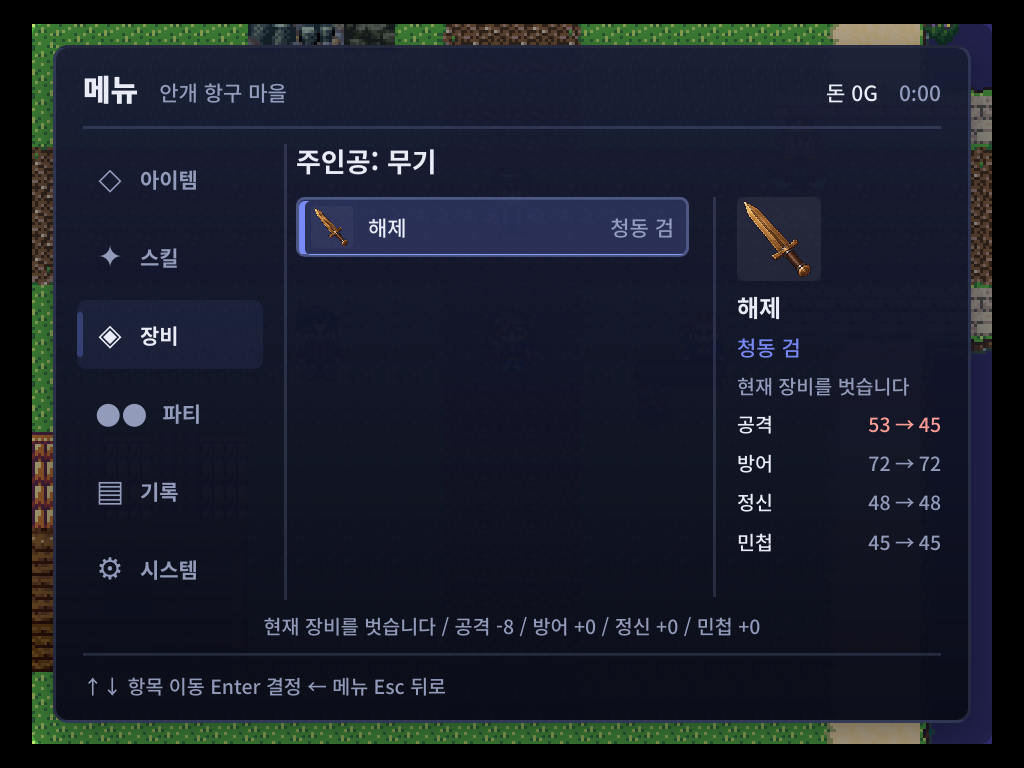
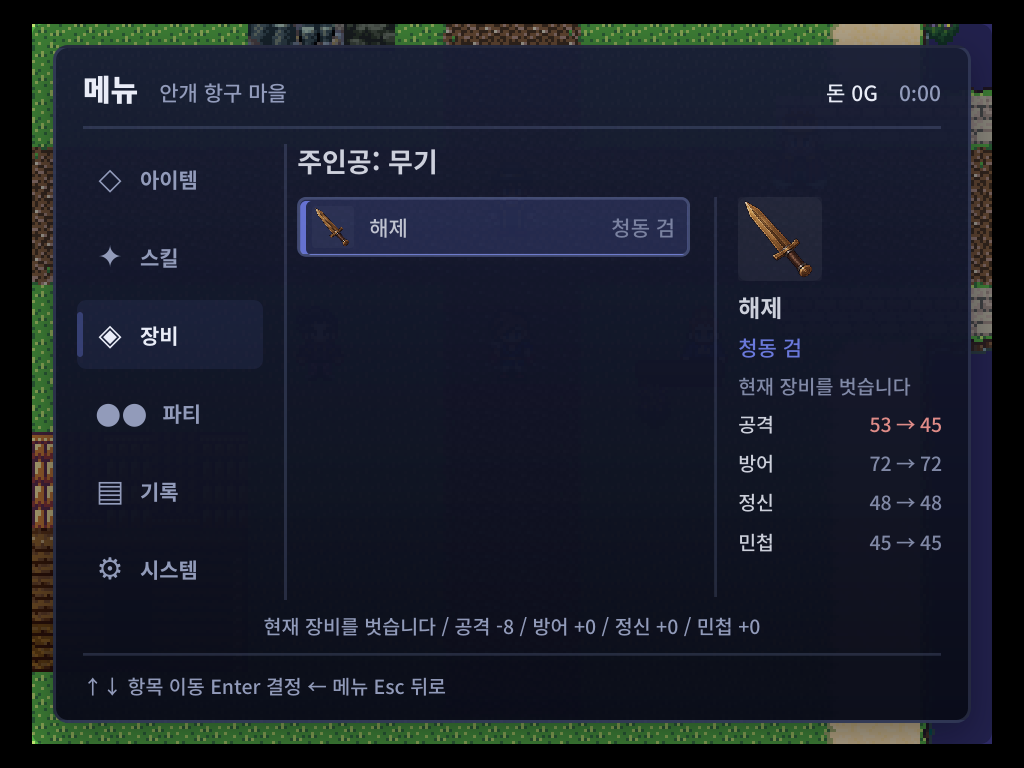
fix(runtime): finalize Esc menu state and regression checks

diff --git a/src/player/playerStatusMenuDetails.ts b/src/player/playerStatusMenuDetails.ts
@@ -4,8 +4,8 @@ import { menuItemUnavailableReason, previewMenuItemTarget } from "@/player/playe
 import { activeItemEffects } from "@/project/itemUsage";
 import type { SaveSlotIndex, SaveSlotReadResult } from "@/player/saveSlots";
 import { canEquip, effectiveActorEquipment, equipmentSlotAccepts } from "@/project/equipmentRules";
-import { resolveActorName } from "@/project/sessionActorCommands";
-import { normalizeActorRecord, parameterValueAtLevel } from "@/project/actorModel";
+import { resolveActorName, resolveActorFaceResourceId } from "@/project/sessionActorCommands";
+import { defaultActorFaceResourceId, normalizeActorRecord, parameterValueAtLevel } from "@/project/actorModel";
 import type { StatusMenuStatDelta } from "@/player/playerStatusMenuDetailTypes";
 import { effectiveActorClassId } from "@/project/sessionClass";
 import type { PlaySession } from "@/project/session";
@@ -155,7 +155,11 @@ function itemDetail(options: StatusMenuDetailOptions): StatusMenuDetail {
           vitals: preview,
           unavailableReason: anyTarget ? undefined : preview.reason,
           description: anyTarget ? "사용 가능한 파티원 모두에게 적용됩니다." : preview.reason,
-          face: { resourceId: actor.faceResourceId, alt: actor.name, testId: `status-menu-target-face-${actor.id}` },
+          face: {
+            resourceId: resolveActorFaceResourceId(session, actor) ?? defaultActorFaceResourceId(actor),
+            alt: resolveActorName(session, actor),
+            testId: `status-menu-target-face-${actor.id}`,
+          },
           testId: `status-menu-item-target-${actor.id}`,
           onActivate: options.onUseItem ? () => options.onUseItem?.(item.id, actor.id) : undefined,
         };

diff --git a/test/systemShell.test.ts b/test/systemShell.test.ts
@@ -225,7 +225,8 @@ describe("T12 RM2K3 player status menu", () => {
       expect(findByTestId(menu, "status-menu-gold")?.textContent).toBe("돈 0G");
       expect(findByTestId(menu, "status-menu-slots")).toBeNull();
       expect(findByTestId(menu, "status-menu-time")?.textContent).toBe("0:00");
-      expect(findByTestId(menu, "status-menu-empty")?.textContent).toBe("파티원이 없습니다");
+      expect(findByTestId(menu, "status-menu-party")).toBeNull();
+      expect(findByTestId(menu, "status-menu-empty")).toBeNull();
       expect(findByTestId(menu, "status-menu-detail-title")?.textContent).toBe("아이템");
       expect(findByTestId(menu, "status-menu-detail")?.textContent).toContain("아이템이 없습니다");
     } finally {

diff --git a/src/player/playerStatusMenuController.ts b/src/player/playerStatusMenuController.ts
@@ -227,6 +227,8 @@ export function createPlayerStatusMenuController(options: PlayerStatusMenuContro
     else detail?.removeAttribute("inert");
     const controls = menu.querySelector<HTMLElement>(".status-menu-controls");
     if (controls) controls.textContent = statusMenuControls(mode);
+    const debug = menu.querySelector<HTMLElement>("[data-testid='status-menu-debug-json']");
+    if (debug) debug.textContent = JSON.stringify({ selectedCommand, mode });
     focusActiveMenuContainer();
   }
 

diff --git a/test/playerStatusMenuMotion.test.ts b/test/playerStatusMenuMotion.test.ts
@@ -18,7 +18,7 @@ describe("status menu exit lifetime", () => {
       closeStatusMenu(menu);
       expect(currentStatusMenu(layout)).toBeNull();
       expect(menu.parentNode).toBe(layout);
-      expect(animate.mock.calls[0]?.[0]).toBeDefined();
+      expect(animate).toHaveBeenCalledTimes(1);
       const [frames, options] = (animate.mock.calls[0] as unknown as [Keyframe[], KeyframeAnimationOptions]);
       expect(frames.at(-1)?.opacity).toBe(0);
       expect(options.fill).toBe("forwards");

diff --git a/src/styles/runtime/statusMenuEdgeDock.css b/src/styles/runtime/statusMenuEdgeDock.css
@@ -111,8 +111,12 @@
 .oprn-status-menu .status-menu-primary-dock > .status-menu-command.selected {
   background: var(--status-edge-amber-soft);
   border-color: transparent;
+  border-radius: 3px;
+  bottom: auto;
   box-shadow: none;
   color: var(--status-edge-ivory);
+  margin: 0;
+  min-height: 0;
 }
 .oprn-status-menu .status-menu-command.selected::before,
 .oprn-status-menu .status-menu-detail-action.selected::before { content: none; }

diff --git a/.omo/evidence/esc-menu-workbench/REPORT.md b/.omo/evidence/esc-menu-workbench/REPORT.md
@@ -12,16 +12,28 @@ The editor shell and remote project storage are not involved in these UI changes
 
 Validation:
 
-- 55 focused unit tests passed (preview/execution parity, no session/RNG mutation,
-  menu rendering, target eligibility, and closing lifetime).
+- 64 focused unit tests passed after integrating main (preview/execution parity,
+  no session/RNG mutation, menu rendering, empty-party shell behavior, target
+  eligibility, and closing lifetime).
+- Application typecheck and CSS budget/graph/live-class gates passed.
 - Chromium passed the 13-beat action scenario, focus/scroll preservation,
   640×480 / 1024×768 / 1280×960 geometry, and close/reopen checks.
-- Firefox passed the final strengthened browser test, additionally verifying
+- Firefox passed the final strengthened browser test again after integrating main,
+  additionally verifying
   all four targets fit, consuming the last potion returns to the list, and
   reduced motion is actually invoked (an empty animation array cannot pass).
 - Later Chromium reruns were interrupted by host `net::ERR_NETWORK_CHANGED`.
   This is the documented Linux network-interface issue in `openwiki/testing.md`;
   final screenshots are from Firefox. Browser names above describe the actual engines.
+
+The full gate is not globally green: its initial run reported 216 failed tests.
+After fixing the menu shell expectation and selected-command CSS geometry, the
+35 newly flagged files and the commit-probe surface test were rerun on clean
+main `2489cfef` and this branch: 30 vs 29 failed assertions, **zero failures unique
+to this change**. The remaining editor surface failures are inherited; no gate
+baseline was changed. See [gates.txt](gates.txt),
+[baseline-comparison.json](baseline-comparison.json), and
+[full-gate-summary.json](full-gate-summary.json).
 
 The QA fixture is a generated copy of the historical item fixture with medicine
 items explicitly typed as `medicine`. Its old `normalGoods` recovery records are
